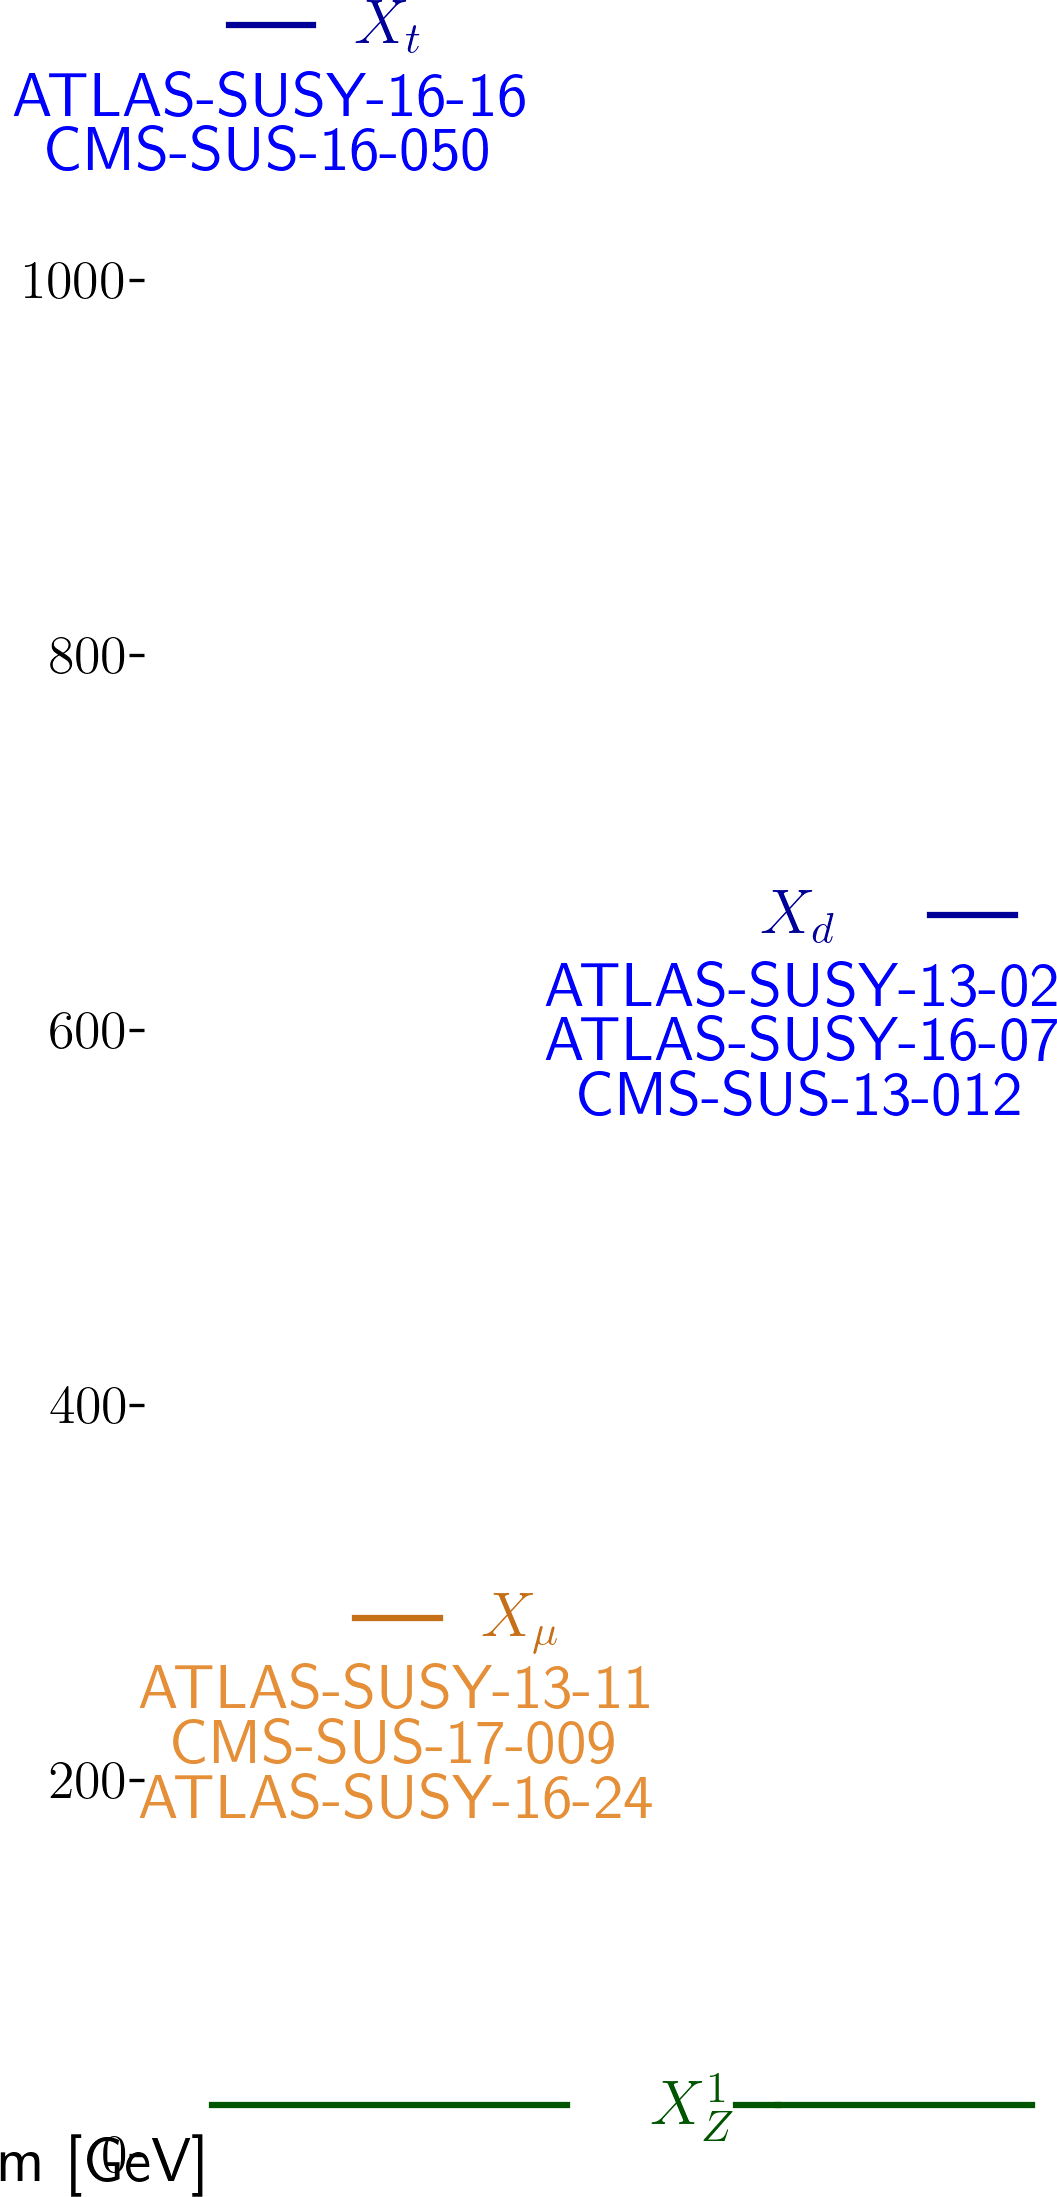
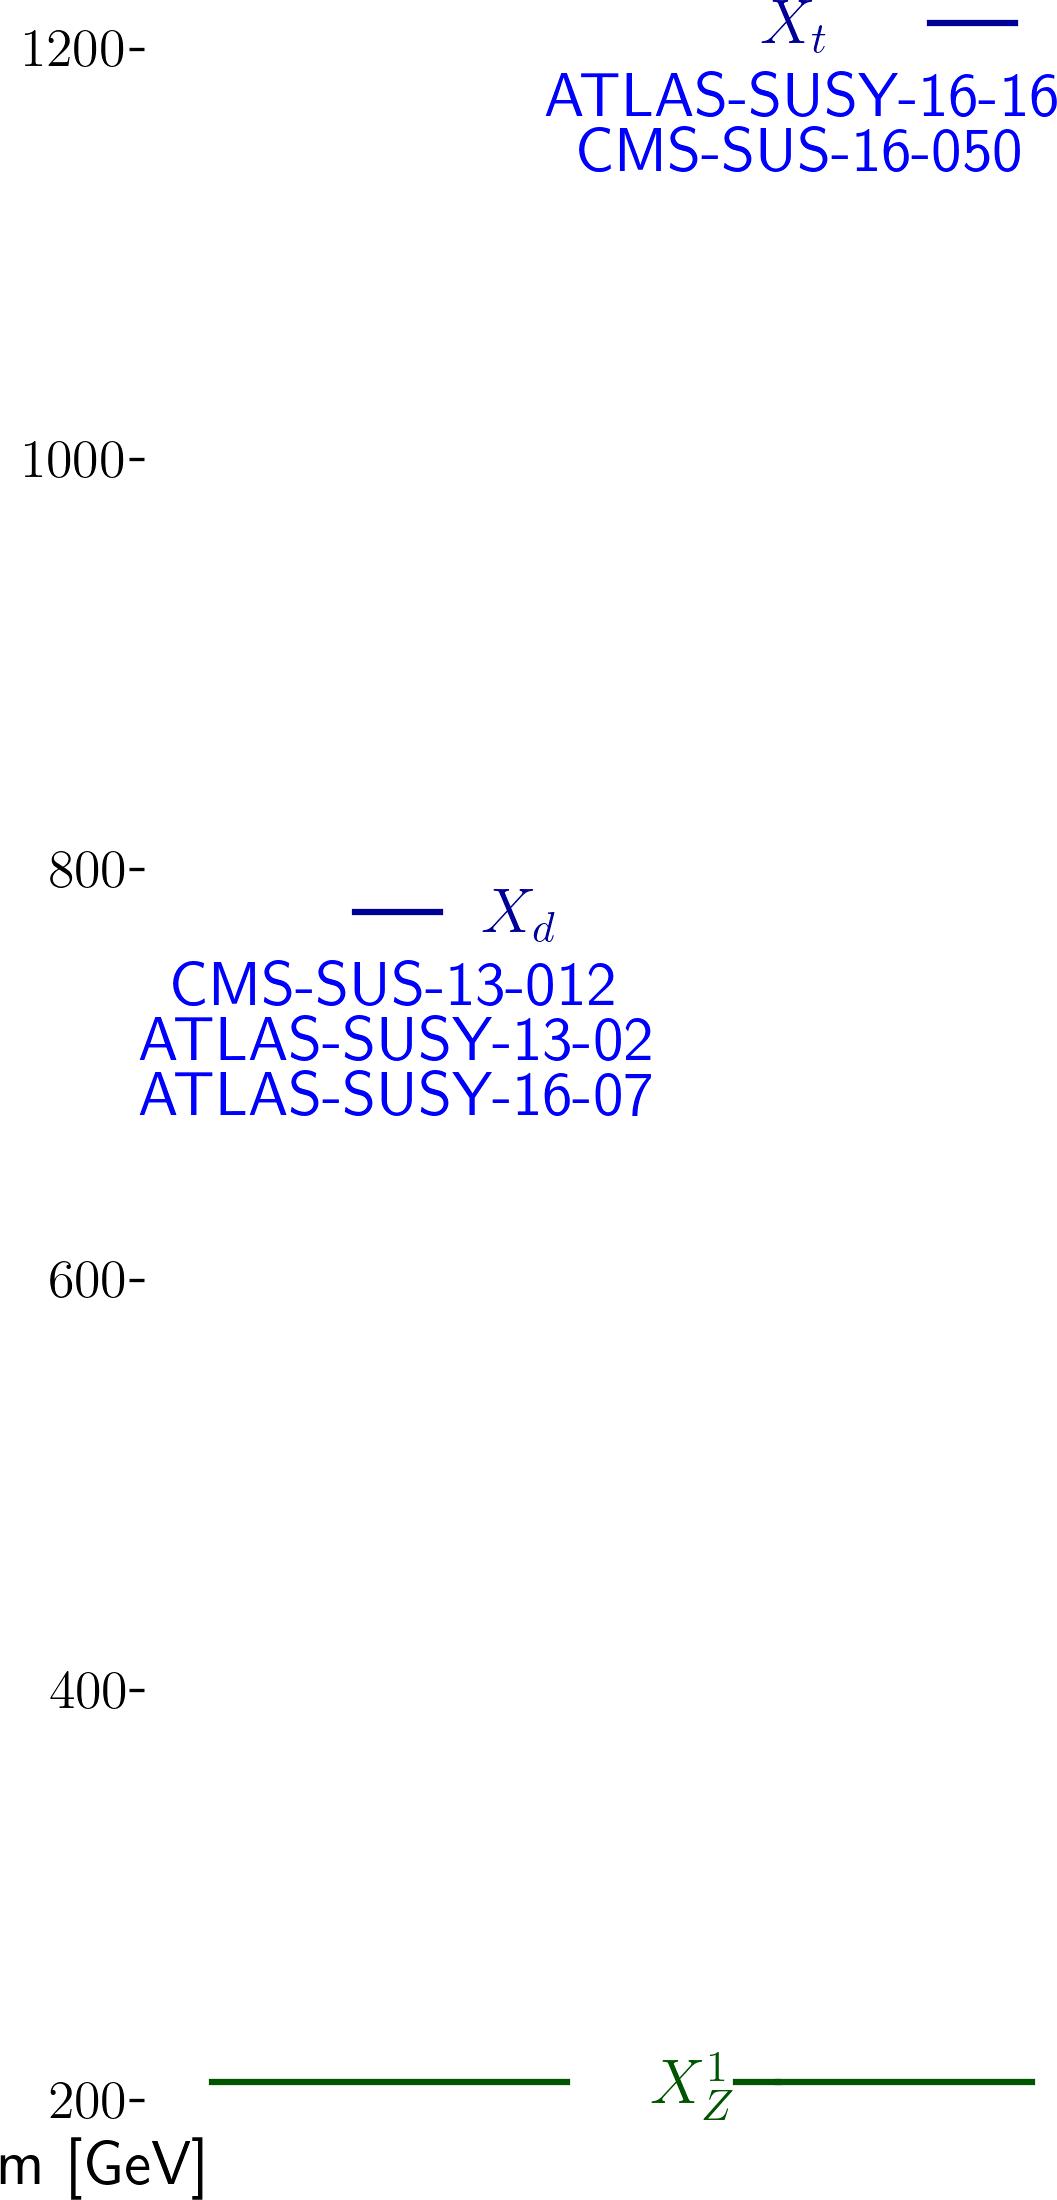
automated update by plotHiscore.py to /scratch-cbe/users/wolfgan.waltenberger/git/smodels.github.io/protomodels

diff --git a/protomodels/2020_PioneerStudy/real10/index.html b/protomodels/2020_PioneerStudy/real10/index.html
@@ -1,33 +1,30 @@
 <html>
 <body>
 <center>
-<table><td><h1>Current best protomodel: K=7.13</h1><td><img height=60px src=https://smodels.github.io/pics/banner.png></table>
+<table><td><h1>Current best protomodel: K=7.35</h1><td><img height=60px src=https://smodels.github.io/pics/banner.png></table>
 </center>
-<b><a href=./hiscore.slha>ProtoModel</a> <a href=./pmodel.py>(dict)</a> produced with <a href=https://smodels.github.io/docs/Validation124>database v1.2.4</a>, combination strategy <a href=./matrix_aggressive.png>aggressive</a> in walker 43 step 835.</b> K plots for: <a href=./M1000022.png?9867006>X<sub>Z</sub><sup>1</sup></a>, <a href=./M1000006.png?9867006>X<sub>t</sub></a>, <a href=./M1000001.png?9867006>X<sub>d</sub></a>, <a href=./M1000013.png?9867006>X<sub>&mu;</sub></a>. HPD plots for: <a href=./llhd1000006.png?9867006>X<sub>t</sub></a>, <a href=./llhd1000001.png?9867006>X<sub>d</sub></a>, <a href=./llhd1000013.png?9867006>X<sub>&mu;</sub></a>. SSM plots for: <a href=./ssm_-1000006_1000006.png?9867006>(x&#772;<sub>t</sub>,X<sub>t</sub>)</a><br>
+<b><a href=./hiscore.slha>ProtoModel</a> <a href=./pmodel.py>(dict)</a> produced with <a href=https://smodels.github.io/docs/Validation124>database v1.2.4</a>, combination strategy <a href=./matrix_aggressive.png>aggressive</a> in walker 18 step 316.</b> K plots for: <a href=./M1000022.png?14864802>X<sub>Z</sub><sup>1</sup></a>, <a href=./M1000006.png?14864802>X<sub>t</sub></a>, <a href=./M1000001.png?14864802>X<sub>d</sub></a>. HPD plots for: <a href=./llhd1000006.png?14864802>X<sub>t</sub></a>, <a href=./llhd1000001.png?14864802>X<sub>d</sub></a>. SSM plots for: <a href=./ssm_-1000006_1000006.png?14864802>(x&#772;<sub>t</sub>,X<sub>t</sub>)</a><br>
 <table width=80%>
 <tr><td>
-<br><b>32 predictions available. Highest r values are:</b><br><ul>
-<li><a href=http://cms-results.web.cern.ch/cms-results/public-results/publications/SUS-19-006/index.html>CMS-SUS-19-006</a>:T2 r=1.30, r<sub>exp</sub>=1.08<br>
-<li><a href=http://cms-results.web.cern.ch/cms-results/public-results/publications/SUS-16-033/index.html>CMS-SUS-16-033</a>:T2 r=1.30, r<sub>exp</sub>=0.82<br>
-<li><a href=https://atlas.web.cern.ch/Atlas/GROUPS/PHYSICS/PAPERS/SUSY-2016-24/>ATLAS-SUSY-2016-24</a>:TSlepSlep r=1.06, r<sub>exp</sub>=N/A<br>
-<li><a href=http://cms-results.web.cern.ch/cms-results/public-results/publications/SUS-19-006/index.html>CMS-SUS-19-006</a>:T2tt r=0.94, r<sub>exp</sub>=0.92<br>
-<li><a href=http://cms-results.web.cern.ch/cms-results/public-results/publications/SUS-16-036/index.html>CMS-SUS-16-036</a>:T2 r=0.94, r<sub>exp</sub>=0.72<br>
+<br><b>19 predictions available. Highest r values are:</b><br><ul>
+<li><a href=http://cms-results.web.cern.ch/cms-results/public-results/publications/SUS-19-006/index.html>CMS-SUS-19-006</a>:T2 r=1.30, r<sub>exp</sub>=1.11<br>
+<li><a href=http://cms-results.web.cern.ch/cms-results/public-results/publications/SUS-19-006/index.html>CMS-SUS-19-006</a>:T2tt r=1.23, r<sub>exp</sub>=1.22<br>
+<li><a href=http://cms-results.web.cern.ch/cms-results/public-results/publications/SUS-16-033/index.html>CMS-SUS-16-033</a>:T2 r=1.20, r<sub>exp</sub>=0.84<br>
+<li><a href=http://cms-results.web.cern.ch/cms-results/public-results/publications/SUS-16-036/index.html>CMS-SUS-16-036</a>:T2 r=0.88, r<sub>exp</sub>=0.76<br>
+<li><a href=http://cms-results.web.cern.ch/cms-results/public-results/publications/SUS-16-049/index.html>CMS-SUS-16-049</a>:T2tt r=0.61, r<sub>exp</sub>=0.97<br>
 </ul>
 <td><br><b>K values without analyses: (contribution)</b><br>
 <ul>
-<li> <a href=https://atlas.web.cern.ch/Atlas/GROUPS/PHYSICS/PAPERS/SUSY-2013-11/>ATLAS-SUSY-2013-11</a>: 3.00 (10%)
-<li> <a href=https://twiki.cern.ch/twiki/bin/view/CMSPublic/PhysicsResultsSUS13012>CMS-SUS-13-012</a>: 3.00 (10%)
-<li> <a href=http://cms-results.web.cern.ch/cms-results/public-results/publications/SUS-16-050/index.html>CMS-SUS-16-050</a>: 3.00 (10%)
-<li> <a href=https://cms-results.web.cern.ch/cms-results/public-results/publications/SUS-17-009/>CMS-SUS-17-009</a>: 3.00 (10%)
-<li> <a href=https://atlas.web.cern.ch/Atlas/GROUPS/PHYSICS/PAPERS/SUSY-2013-02/>ATLAS-SUSY-2013-02</a>: 2.91 (10%)
-<li> <a href=https://atlas.web.cern.ch/Atlas/GROUPS/PHYSICS/PAPERS/SUSY-2016-24/>ATLAS-SUSY-2016-24</a>: 2.49 (11%)
-<li> <a href=https://atlas.web.cern.ch/Atlas/GROUPS/PHYSICS/PAPERS/SUSY-2016-16/>ATLAS-SUSY-2016-16</a>: 0.38 (17%)
-<li> <a href=https://atlas.web.cern.ch/Atlas/GROUPS/PHYSICS/PAPERS/SUSY-2016-07/>ATLAS-SUSY-2016-07</a>: -1.41 (21%)
-<td><img width=600px src=./texdoc.png?1602867006>
-<br><font size=-1>Last updated: Fri Oct 16 18:50:06 2020</font>
+<li> <a href=http://cms-results.web.cern.ch/cms-results/public-results/publications/SUS-16-050/index.html>CMS-SUS-16-050</a>: 3.35 (15%)
+<li> <a href=https://twiki.cern.ch/twiki/bin/view/CMSPublic/PhysicsResultsSUS13012>CMS-SUS-13-012</a>: 3.35 (15%)
+<li> <a href=https://atlas.web.cern.ch/Atlas/GROUPS/PHYSICS/PAPERS/SUSY-2013-02/>ATLAS-SUSY-2013-02</a>: 3.28 (15%)
+<li> <a href=https://atlas.web.cern.ch/Atlas/GROUPS/PHYSICS/PAPERS/SUSY-2016-16/>ATLAS-SUSY-2016-16</a>: 1.25 (23%)
+<li> <a href=https://atlas.web.cern.ch/Atlas/GROUPS/PHYSICS/PAPERS/SUSY-2016-07/>ATLAS-SUSY-2016-07</a>: -0.75 (31%)
+<td><img width=600px src=./texdoc.png?1607864802>
+<br><font size=-1>Last updated: Sun Dec 13 14:06:42 2020</font>
 </table><table style="width:80%">
-<td width=45%><img height=580px src=./ruler.png?1602867006><td width=55%><img height=380px src=./decays.png?1602867006>
-<font size=-3><iframe type="text/html" height="220px" width="100%s" frameborder="0" src="./rawnumbers.html?1602867006"></iframe></font>
+<td width=45%><img height=580px src=./ruler.png?1607864802><td width=55%><img height=380px src=./decays.png?1607864802>
+<font size=-3><iframe type="text/html" height="220px" width="100%s" frameborder="0" src="./rawnumbers.html?1607864802"></iframe></font>
 </table>
 </body>
 </html>

diff --git a/protomodels/2020_PioneerStudy/real10/rawnumbers.html b/protomodels/2020_PioneerStudy/real10/rawnumbers.html
@@ -2,11 +2,8 @@
 <tr><th>Analysis Name</th><th>Type</th><th>Dataset</th><th>Topos</th><th>Observed</th><th>Expected</th><th>Approx &sigma;</th><th>Particles</th>
 </tr>
 <tr><td><a href=https://atlas.web.cern.ch/Atlas/GROUPS/PHYSICS/PAPERS/SUSY-2013-02/>ATLAS-SUSY-2013-02</a></td><td>em</td> <td>SR6jtp</td><td>T2</td><td>6</td><td>4.9 +/- 1.6</td><td style="text-align:right">0.4 &sigma;</td><td style="text-align:right">X<sub>d</sub></td></tr>
-<tr><td><a href=https://atlas.web.cern.ch/Atlas/GROUPS/PHYSICS/PAPERS/SUSY-2013-11/>ATLAS-SUSY-2013-11</a></td><td>em</td> <td>Zjets</td><td>TSlepSlep</td><td>1</td><td>1.4 +/- 0.6</td><td style="text-align:right">-0.3 &sigma;</td><td style="text-align:right">X<sub>&mu;</sub></td></tr>
 <tr><td><a href=https://atlas.web.cern.ch/Atlas/GROUPS/PHYSICS/PAPERS/SUSY-2016-07/>ATLAS-SUSY-2016-07</a></td><td>em</td> <td>2j_Meff_1200</td><td>T2</td><td>611</td><td>526 +/- 31</td><td style="text-align:right">2.2 &sigma;</td><td style="text-align:right">X<sub>d</sub></td></tr>
 <tr><td><a href=https://atlas.web.cern.ch/Atlas/GROUPS/PHYSICS/PAPERS/SUSY-2016-16/>ATLAS-SUSY-2016-16</a></td><td>em</td> <td>tN_high</td><td>T2tt</td><td>8</td><td>3.8 +/- 1</td><td style="text-align:right">1.9 &sigma;</td><td style="text-align:right">X<sub>t</sub></td></tr>
-<tr><td><a href=https://atlas.web.cern.ch/Atlas/GROUPS/PHYSICS/PAPERS/SUSY-2016-24/>ATLAS-SUSY-2016-24</a></td><td>em</td> <td>SR2-SF-loose</td><td>TSmuSmu</td><td>153</td><td>133 +/- 22</td><td style="text-align:right">0.8 &sigma;</td><td style="text-align:right">X<sub>&mu;</sub></td></tr>
-<tr><td><a href=https://twiki.cern.ch/twiki/bin/view/CMSPublic/PhysicsResultsSUS13012>CMS-SUS-13-012</a></td><td>ul</td> <td>-</td><td>T2</td><td> 44.2 fb </td><td> 27.1 fb</td><td style="text-align:right">1.2 &sigma;</td><td style="text-align:right">X<sub>d</sub></td></tr>
-<tr><td><a href=http://cms-results.web.cern.ch/cms-results/public-results/publications/SUS-16-050/index.html>CMS-SUS-16-050</a></td><td>ul</td> <td>-</td><td>T2tt</td><td> 4.5 fb </td><td> 2.6 fb</td><td style="text-align:right">1.5 &sigma;</td><td style="text-align:right">X<sub>t</sub></td></tr>
-<tr><td><a href=https://cms-results.web.cern.ch/cms-results/public-results/publications/SUS-17-009/>CMS-SUS-17-009</a></td><td>ul</td> <td>-</td><td>TSmuSmu</td><td> 6.4 fb </td><td> 4.3 fb</td><td style="text-align:right">0.9 &sigma;</td><td style="text-align:right">X<sub>&mu;</sub></td></tr>
+<tr><td><a href=https://twiki.cern.ch/twiki/bin/view/CMSPublic/PhysicsResultsSUS13012>CMS-SUS-13-012</a></td><td>ul</td> <td>-</td><td>T2</td><td> 27.4 fb </td><td> 16.6 fb</td><td style="text-align:right">1.3 &sigma;</td><td style="text-align:right">X<sub>d</sub></td></tr>
+<tr><td><a href=http://cms-results.web.cern.ch/cms-results/public-results/publications/SUS-16-050/index.html>CMS-SUS-16-050</a></td><td>ul</td> <td>-</td><td>T2tt</td><td> 4.4 fb </td><td> 2.4 fb</td><td style="text-align:right">1.6 &sigma;</td><td style="text-align:right">X<sub>t</sub></td></tr>
 </table>

diff --git a/protomodels/2020_PioneerStudy/real10/pmodel.py b/protomodels/2020_PioneerStudy/real10/pmodel.py
@@ -1,1 +1,1 @@
-{'masses': {1000022: 16.692, 1000001: 651.363, 1000006: 1126.127, 1000013: 276.424}, 'ssmultipliers': {(1000022, 1000022): 0.0, (1000001, 1000001): 0.293, (-1000001, 1000001): 0.293, (-1000001, -1000001): 0.293, (1000001, 1000022): 0.293, (-1000001, 1000022): 0.293, (1000006, 1000006): 0.767, (-1000006, 1000006): 0.709, (-1000006, -1000006): 0.736, (1000006, 1000022): 0.736, (-1000006, 1000022): 0.736, (1000001, 1000006): 1.035, (-1000006, 1000001): 1.035, (-1000001, 1000006): 1.035, (-1000006, -1000001): 1.035, (1000013, 1000013): 1.001, (-1000013, 1000013): 1.001, (-1000013, -1000013): 1.001, (1000013, 1000022): 1.001, (-1000013, 1000022): 1.001, (1000001, 1000013): 1.001, (-1000013, 1000001): 1.001, (-1000001, 1000013): 1.001, (-1000013, -1000001): 1.001, (1000006, 1000013): 1.001, (-1000013, 1000006): 1.001, (-1000006, 1000013): 1.001, (-1000013, -1000006): 1.001}, 'decays': {1000022: {}, 1000001: {(1000022, 1): 1.0}, 1000006: {(1000022, 6): 1.0}, 1000013: {(1000022, 13): 1.0}}, 'timestamp': 'Fri Oct 16 18:49:32 2020', 'Z': 3.453, 'K': 7.126, 'walkerid': 43, 'step': 835, 'codever': '1.0', 'dbver': '1.2.4'}
+{'masses': {1000022: 198.937, 1000001: 769.08, 1000006: 1202.452}, 'ssmultipliers': {(1000022, 1000022): 0.0, (1000001, 1000001): 0.0, (-1000001, 1000001): 0.572, (-1000001, -1000001): 0.572, (1000001, 1000022): 0.0, (-1000001, 1000022): 0.0, (1000006, 1000006): 1.265, (-1000006, 1000006): 1.532, (-1000006, -1000006): 1.276, (1000006, 1000022): 1.265, (-1000006, 1000022): 1.265, (1000001, 1000006): 1.522, (-1000006, 1000001): 1.107, (-1000001, 1000006): 1.44, (-1000006, -1000001): 1.44}, 'decays': {1000022: {}, 1000001: {(1000022, 1): 1.0}, 1000006: {(1000022, 6): 1.0}}, 'timestamp': 'Sun Dec 13 14:06:31 2020', 'Z': 3.293, 'K': 7.346, 'walkerid': 18, 'step': 316, 'codever': '1.0', 'dbver': '1.2.4'}
